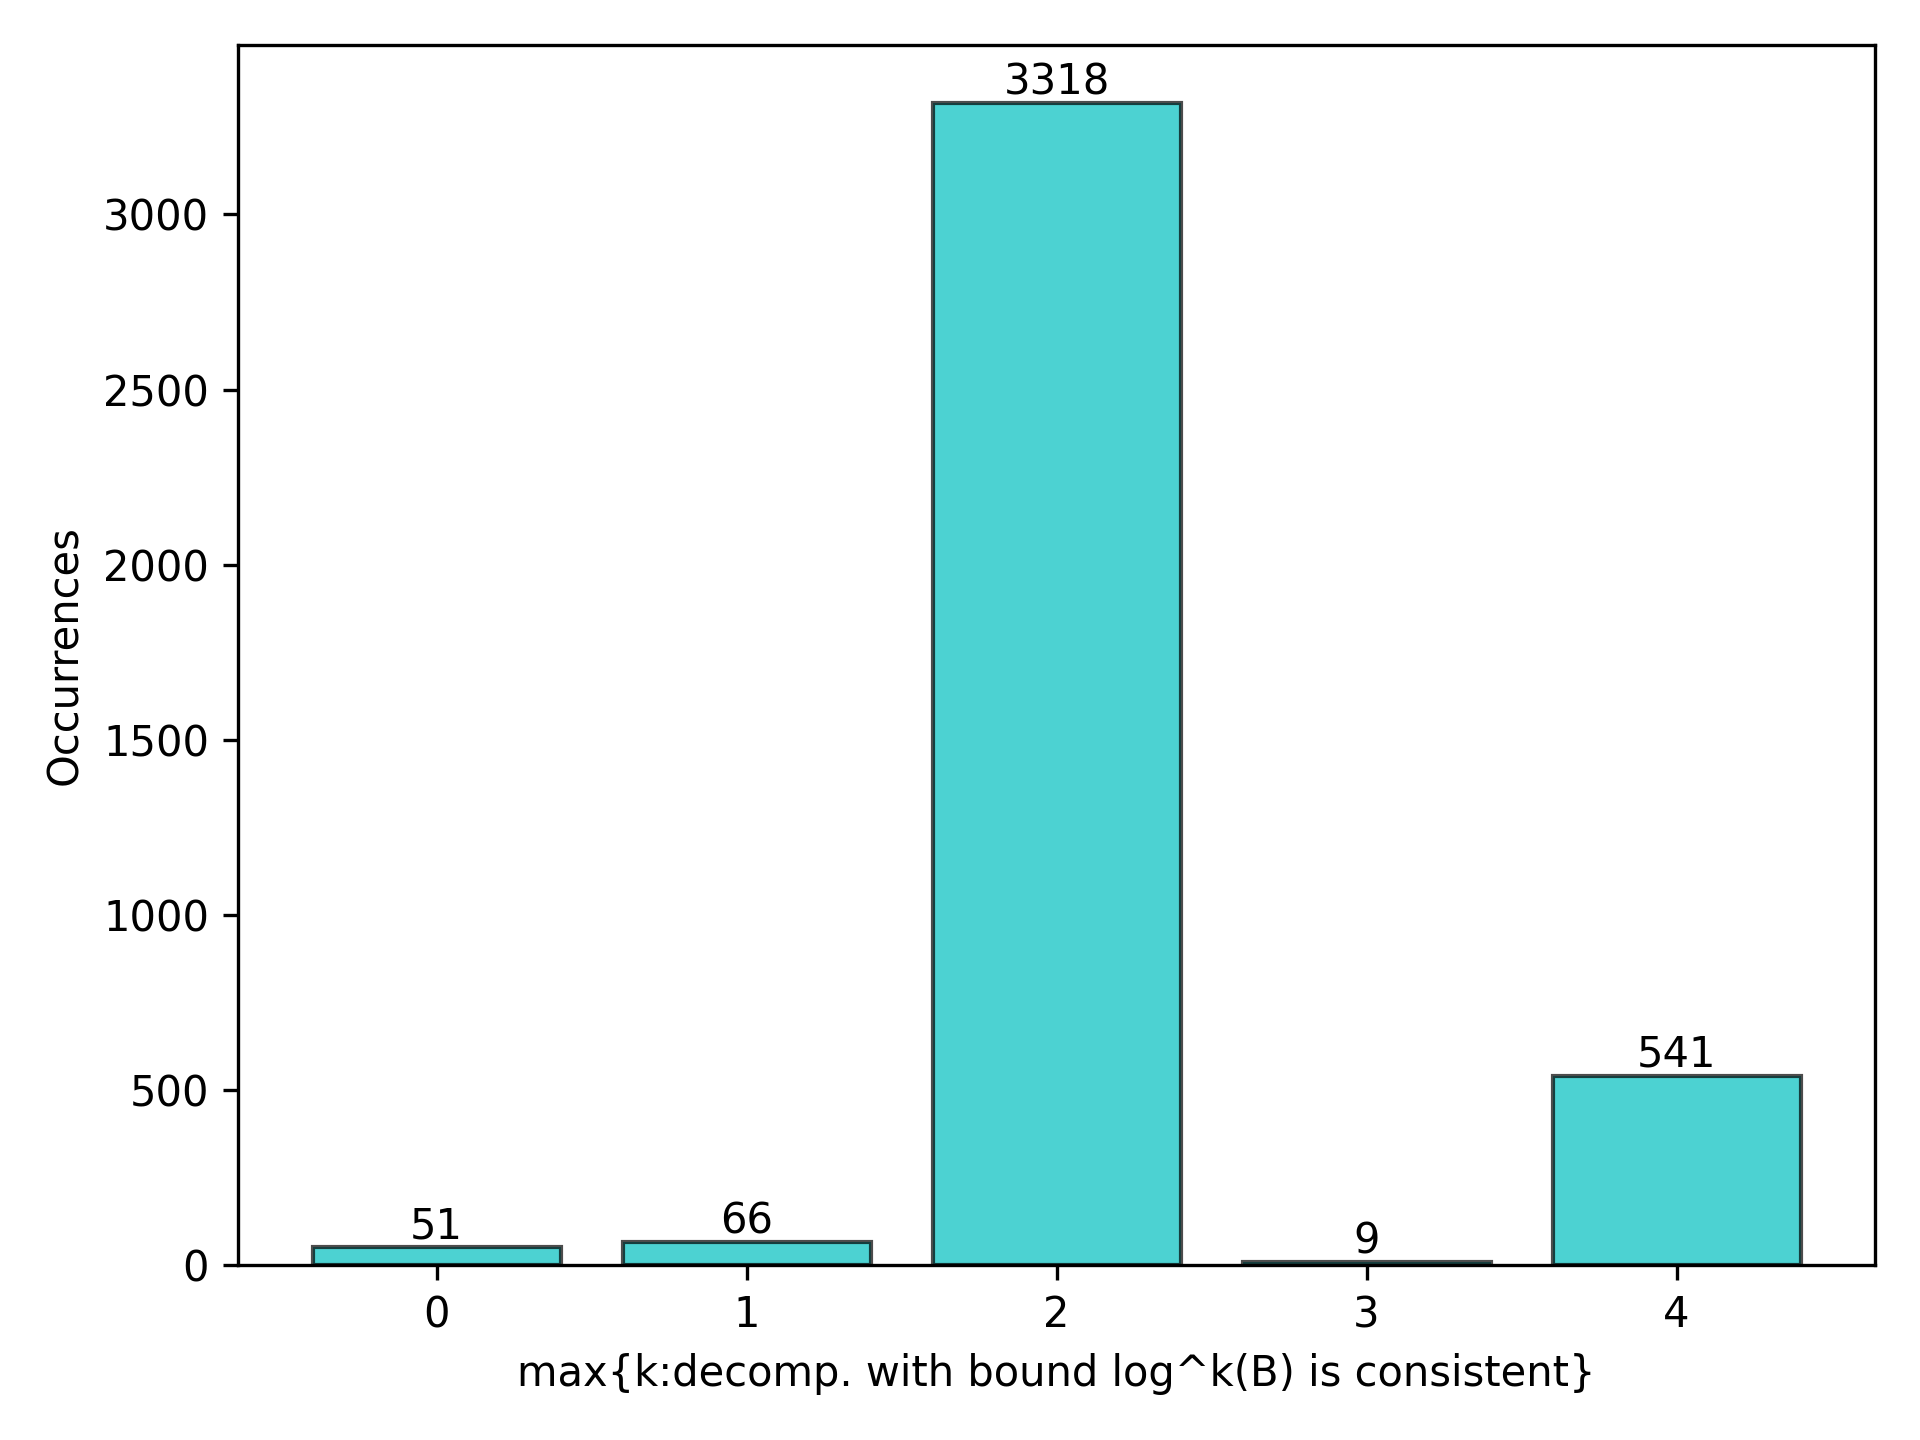
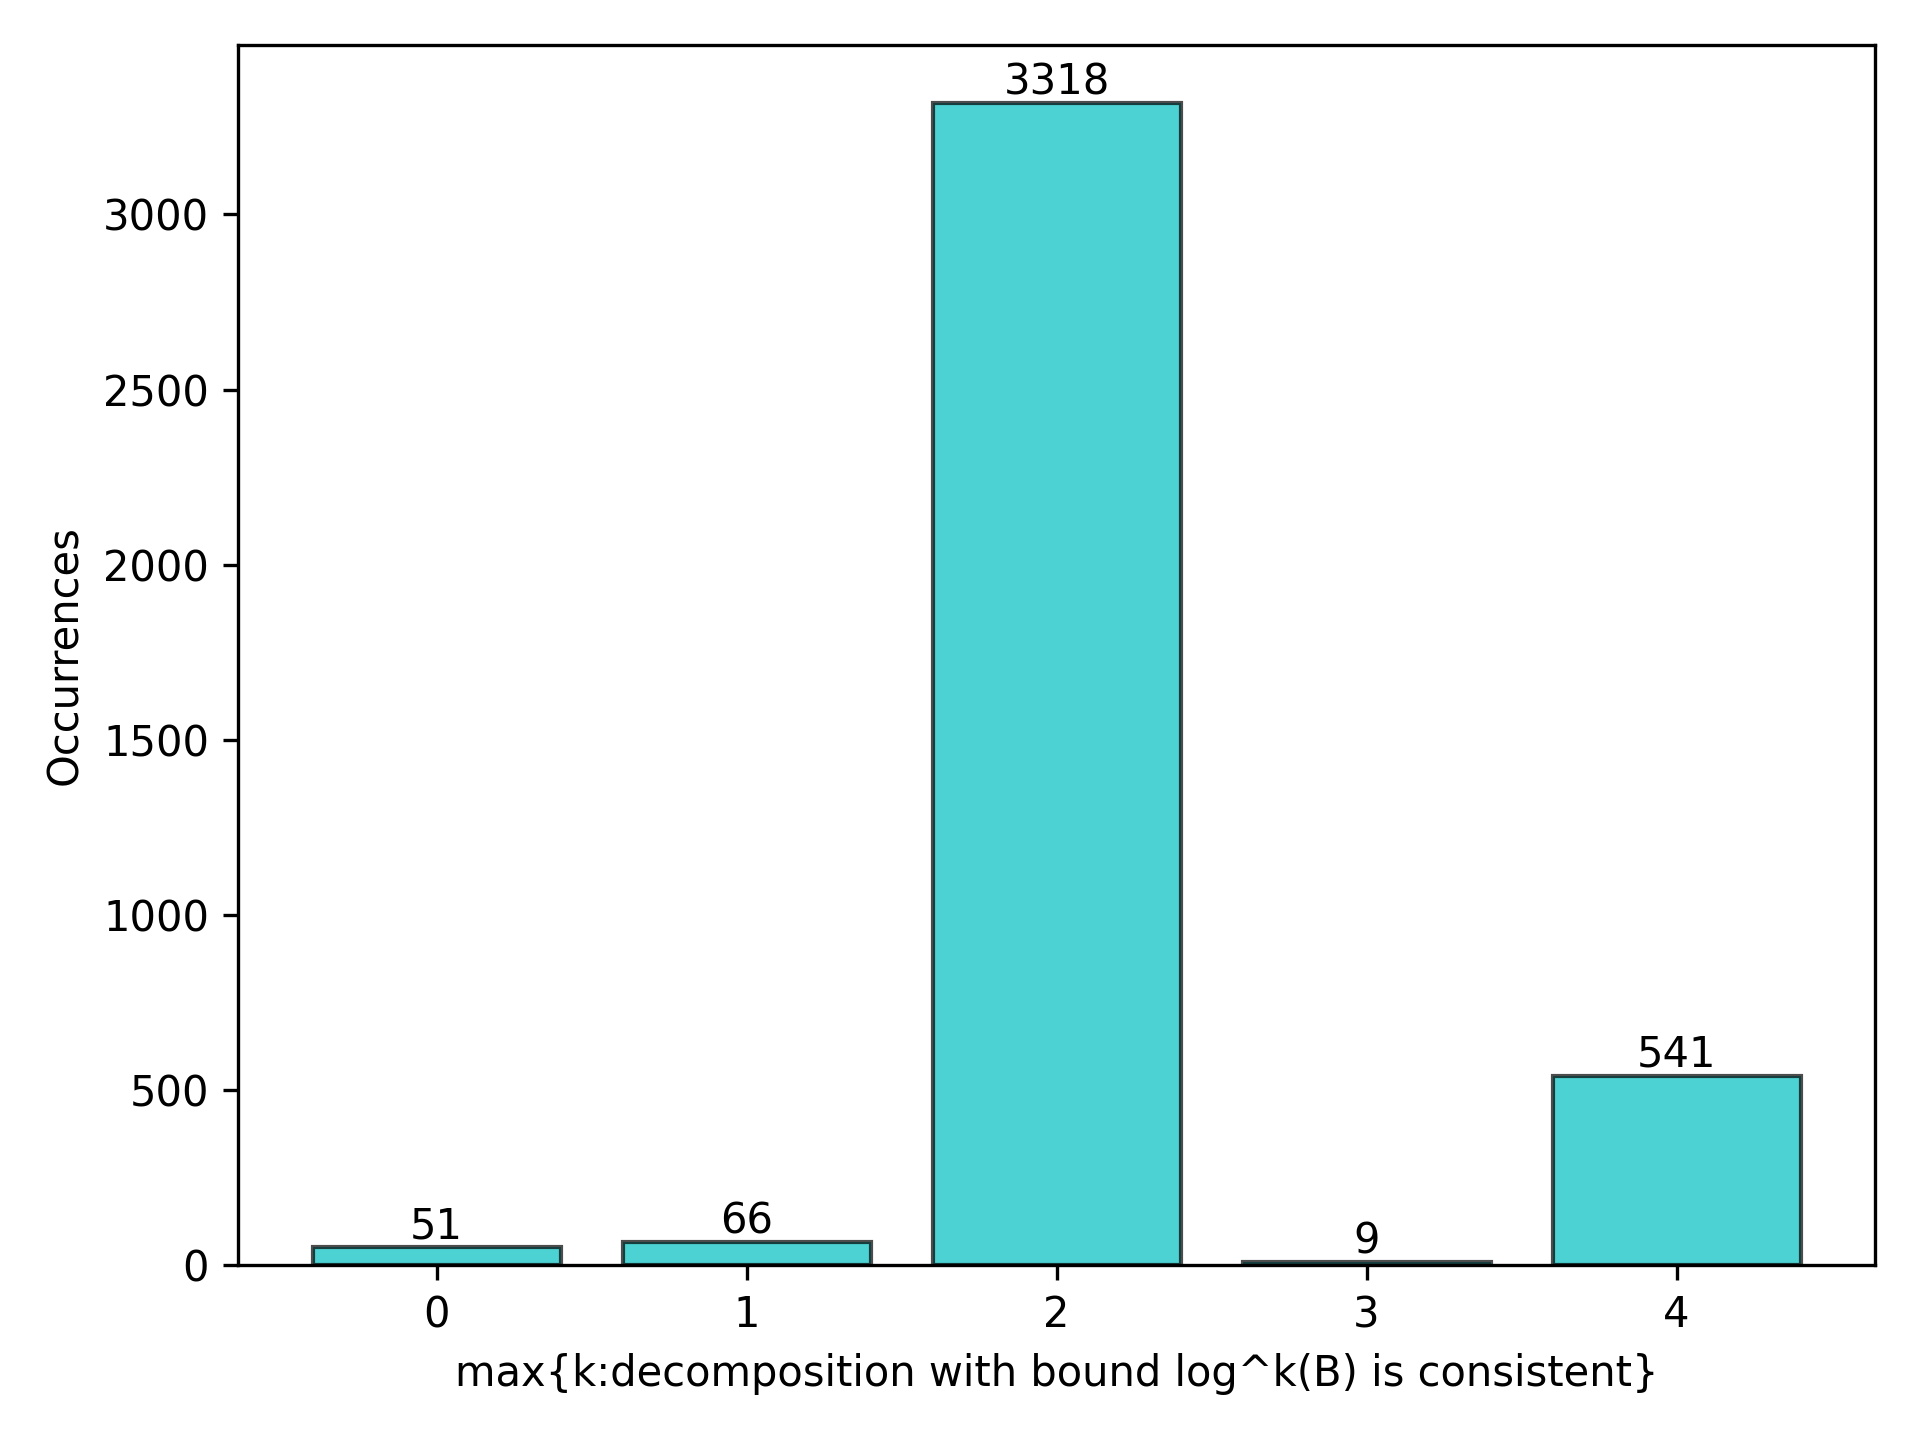
Improved bar chart and some phrases in the readme

Changed region(s): [[0.2188, 0.9375, 0.875, 0.9688]]

diff --git a/src/benchmark_plot.py b/src/benchmark_plot.py
@@ -208,7 +208,7 @@ def benchmark_plot_logk_hist():
     bars = ax.bar(labels, counts, color="c", alpha=.7, edgecolor="k")
     ax.bar_label(bars)
 
-    ax.set_xlabel("max{k:decomp. with bound log^k(B) is consistent}")
+    ax.set_xlabel("max{k:decomposition with bound log^k(B) is consistent}")
     ax.set_ylabel("Occurrences")
 
     save_as_img(fig, "log_count_until_inc_dist")

diff --git a/README.md b/README.md
@@ -38,7 +38,7 @@ It is therefore important to add `x >= 0` constraints for all variables `x` if t
 ## First method
 
 The first method is based on the [Monadic Decomposition in Integer Linear Arithmetic](https://arxiv.org/abs/2004.12371) paper by Matthew Hague, Anthony Widjaja Lin, Philipp Rümmer and Zhilin Wu.
-It is important that there, a bound `B` for essentially the maximum value the formula can "address explicitly" is computed before constructing a formula for `z3` that expresses the fact that the given formula is monadically decomposable.
+It is important that in the implementation, an upper bound `B` for essentially the maximum value the formula can "address explicitly" is computed before constructing a `z3` formula that expresses the fact that the given formula is monadically decomposable.
 
 To use this method, call the `monadic_decomposable` function from the `src/presmondec.py` module.
 The arguments are:
@@ -130,7 +130,7 @@ Following results were obtained by running the benchmark on the entire [QF_LIA d
 
 The benchmark was run with the following parameters:
 * No iteration limit
-* Maximum number of variables per formula: 2
+* Each formula was monadically decomposed on 2 variables (i.e. `[VARS_PER_FORMULA_LIMIT]` was set to 2)
 * Sat check timeout: 2000 ms = 2 seconds
 * Z3 timeout: 16000 ms = 16 seconds
 * File size limit: 1000 KB = 1 MB
@@ -140,8 +140,8 @@ This table illustrates how many times each monadic decomposition method was run 
 | Monadic decomposition |   With bound    |  Without bound  |
 | :-------------------: | :-------------: | :-------------: |
 |   Executed (times)    |      4058       |      3985       |
-|   Succeeded (times)   | 3985 (**≈98%**) | 1575 (**≈39%**) |
-|    Failed (times)     |  73 (**≈1%**)   | 2410 (**≈60%**) |
+|   Succeeded (times)   | 3985 (≈**98%**) | 1575 (≈**40%**) |
+|    Failed (times)     |  73 (≈**2%**)   | 2410 (≈**60%**) |
 
 We can therefore conclude that the monadic decomposition method with bound is much more reliable compared to the version without the bound. We can compare the performance of both methods by considering the following plots:
 
